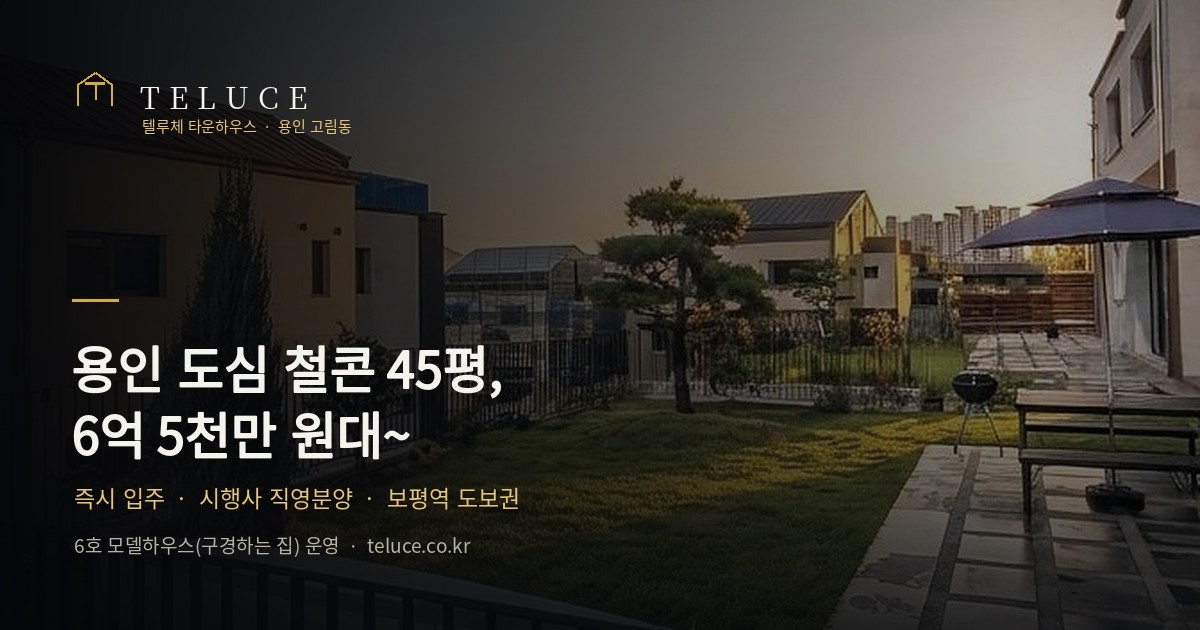
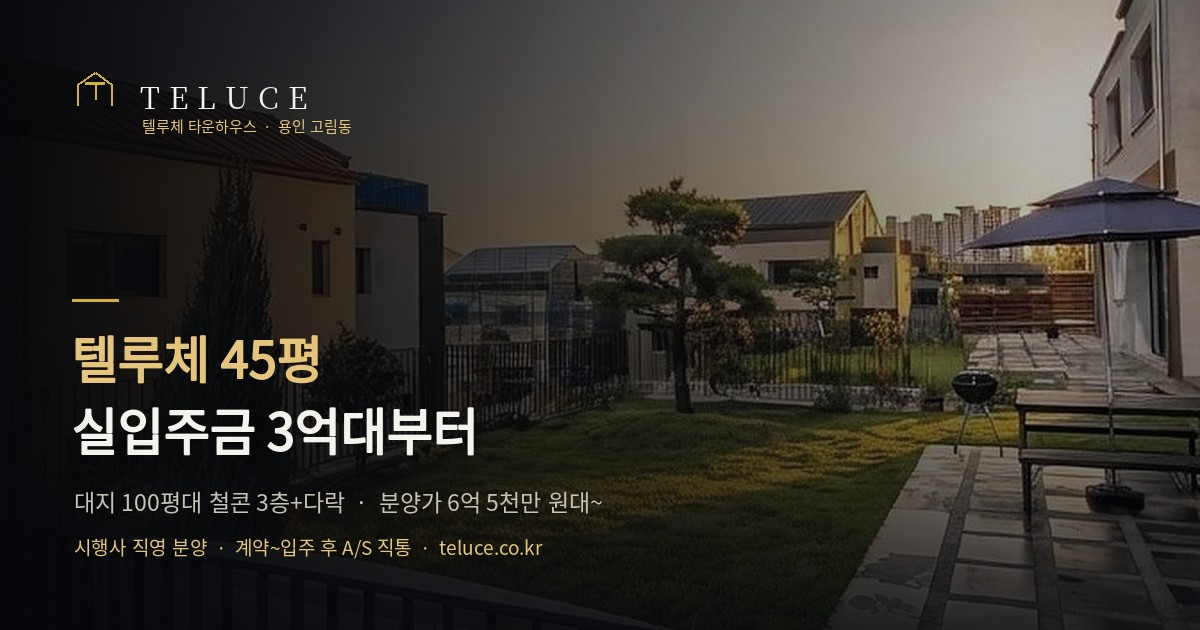
차기 개발 4개 현장(pipeline) 섹션 + OG/히어로 카피 + 직영분양·오시는 길 강조

Changed region(s): [[0.0617, 0.5127, 0.4933, 0.8143], [0.0617, 0.8444, 0.4625, 0.9048]]

diff --git a/index.html b/index.html
@@ -3,24 +3,24 @@
 <head>
 <meta charset="utf-8">
 <meta name="viewport" content="width=device-width, initial-scale=1">
-<title>용인 고림동 텔루체 타운하우스 | TELUCE 텔루체</title>
-<meta name="description" content="경기도 용인시 처인구 고림동 458-9. 보평역 도보권, 철근콘크리트 단독형 17세대 텔루체 타운하우스. 6호 신규 모델하우스(구경하는 집) 운영 중. 대지 약 100평대, 철콘 45평형 6억 5천만 원대~. 방문 예약 010-6235-6914.">
+<title>텔루체 45평 · 실입주금 3억대부터 | 용인 타운하우스 TELUCE</title>
+<meta name="description" content="대지 100평대 철근콘크리트 3층+다락 · 분양가 6억 5천만 원대~ · 시행사 직영 분양. 용인 고림동 458-9, 6호 모델하우스(구경하는 집) 운영. 방문 예약 010-6235-6914.">
 <meta name="theme-color" content="#14213D">
 <meta property="og:type" content="website">
 <meta property="og:site_name" content="텔루체 타운하우스 TELUCE">
 <meta property="og:locale" content="ko_KR">
 <link rel="canonical" href="https://teluce.co.kr/">
 <meta property="og:url" content="https://teluce.co.kr/">
-<meta property="og:title" content="용인 도심 철콘 45평 6억 5천~ · 즉시 입주 | 텔루체">
-<meta property="og:description" content="시행사 직영분양 · 도시가스 · 반도체 클러스터 직주근접 · 잔여 세대 마감 임박. 보평역 도보권 철근콘크리트 45평형, 6억 5천만 원대~.">
+<meta property="og:title" content="텔루체 45평 · 실입주금 3억대부터 | 용인 타운하우스 TELUCE">
+<meta property="og:description" content="대지 100평대 철근콘크리트 3층+다락 · 분양가 6억 5천만 원대~ · 시행사 직영 분양">
 <meta property="og:image" content="https://teluce.co.kr/assets/og-teluce.jpg">
 <meta property="og:image:width" content="1200">
 <meta property="og:image:height" content="630">
 <meta property="og:image:type" content="image/jpeg">
-<meta property="og:image:alt" content="용인 도심 철콘 45평 6억 5천~ · 즉시 입주 | 텔루체">
+<meta property="og:image:alt" content="텔루체 45평 · 실입주금 3억대부터 | 용인 타운하우스 TELUCE">
 <meta name="twitter:card" content="summary_large_image">
-<meta name="twitter:title" content="용인 도심 철콘 45평 6억 5천~ · 즉시 입주 | 텔루체">
-<meta name="twitter:description" content="시행사 직영분양 · 도시가스 · 반도체 클러스터 직주근접 · 잔여 세대 마감 임박">
+<meta name="twitter:title" content="텔루체 45평 · 실입주금 3억대부터 | 용인 타운하우스 TELUCE">
+<meta name="twitter:description" content="대지 100평대 철근콘크리트 3층+다락 · 분양가 6억 5천만 원대~ · 시행사 직영 분양">
 <meta name="twitter:image" content="https://teluce.co.kr/assets/og-teluce.jpg">
 
 <link rel="icon" type="image/svg+xml" href="assets/favicon-teluce.svg">
@@ -28,7 +28,8 @@
 {
   "@context": "https://schema.org",
   "@type": "ApartmentComplex",
-  "name": "텔루체 타운하우스 (TELUCE)",
+  "name": "텔루체 45평 · 실입주금 3억대부터 | 용인 타운하우스 TELUCE",
+  "alternateName": "텔루체 타운하우스 (TELUCE)",
   "description": "경기도 용인시 처인구 고림동 458-9 일원, 철근콘크리트 단독형 17세대 타운하우스. 텔루체 분양 상담.",
   "url": "https://teluce.co.kr/",
   "image": "https://teluce.co.kr/assets/og-teluce.jpg",
@@ -574,6 +575,32 @@ button.price-figure:hover img{transform:scale(1.015)}
 .mobile-bar{position:fixed;left:0;right:0;bottom:0;z-index:70;display:none;background:rgba(9,10,13,.97);border-top:1px solid rgba(229,197,123,.25);padding:8px 10px calc(8px + env(safe-area-inset-bottom));gap:8px;backdrop-filter:blur(10px)}
 .mobile-bar .btn{flex:1;min-height:48px;font-size:14.5px}
 
+/* ---------- pipeline ---------- */
+.pipeline{background:var(--cream-2);border-top:1px solid var(--line);position:relative;overflow:hidden}
+.pipeline::before{content:"";position:absolute;right:-180px;top:-180px;width:520px;height:520px;border-radius:50%;border:1px solid rgba(212,175,55,.14);pointer-events:none}
+.pipe-head{display:flex;align-items:flex-end;justify-content:space-between;gap:24px;flex-wrap:wrap;position:relative}
+.pipe-head .btn{flex:none}
+.pipe-grid{display:grid;grid-template-columns:repeat(4,1fr);gap:clamp(12px,1.6vw,18px);margin-top:clamp(26px,3.6vw,42px);position:relative}
+.pipe-card{display:flex;flex-direction:column;border:1px solid rgba(212,175,55,.24);background:linear-gradient(180deg,rgba(255,255,255,.04),rgba(255,255,255,.012));padding:22px 20px 20px;transition:border-color .3s,transform .3s,box-shadow .3s}
+.pipe-card:hover{border-color:var(--gold);transform:translateY(-4px);box-shadow:0 26px 50px -32px rgba(0,0,0,.95)}
+.pipe-no{font-family:var(--ff-serif);font-size:11px;letter-spacing:.26em;color:var(--gold);margin-bottom:10px}
+.pipe-region{display:block;font-size:10.5px;letter-spacing:.18em;color:rgba(245,243,238,.55);text-transform:uppercase}
+.pipe-card h3{font-size:16.5px;font-weight:700;line-height:1.42;margin:7px 0 0;letter-spacing:-.025em;color:var(--ink)}
+.pipe-size{display:inline-block;margin-top:10px;font-family:var(--ff-serif);font-size:12px;letter-spacing:.04em;color:var(--gold-soft);border:1px solid rgba(212,175,55,.42);padding:3px 10px}
+.pipe-list{margin-top:14px;display:grid;gap:7px;border-top:1px solid rgba(212,175,55,.16);padding-top:13px}
+.pipe-list li{font-size:12.5px;line-height:1.62;color:rgba(245,243,238,.74);display:flex;gap:7px}
+.pipe-list li svg{width:13px;height:13px;flex:none;margin-top:4px;color:var(--gold)}
+.pipe-list b{color:var(--gold-pale);font-weight:600}
+.pipe-cta{margin-top:auto;padding-top:16px;display:inline-flex;align-items:center;gap:6px;font-size:11.5px;color:var(--gold-soft);border-bottom:1px solid rgba(212,175,55,.35);padding-bottom:2px;align-self:flex-start}
+.pipe-cta:hover{color:var(--gold-pale);border-color:var(--gold)}
+.pipe-cta svg{width:12px;height:12px}
+.pipe-foot{display:flex;align-items:center;justify-content:space-between;gap:18px;flex-wrap:wrap;margin-top:clamp(20px,3vw,30px);padding-top:18px;border-top:1px solid var(--line);position:relative}
+.pipe-foot p{font-size:11.5px;color:var(--muted);line-height:1.7;max-width:640px}
+.pipe-foot .status-cta{display:flex;gap:9px;flex-wrap:wrap}
+.way-note{margin-top:10px;padding:10px 12px;border-left:2px solid var(--gold);background:rgba(212,175,55,.07);font-size:13px !important;line-height:1.7;color:var(--ink-2) !important}
+.way-note b{color:var(--gold-soft)}
+@media (max-width:1080px){.pipe-grid{grid-template-columns:1fr 1fr}}
+@media (max-width:640px){.pipe-grid{grid-template-columns:1fr}.pipe-head .btn{width:100%}}
 /* ---------- dark theme form polish ---------- */
 .field input::placeholder,.field textarea::placeholder{color:rgba(245,243,238,.42)}
 .field select option{background:#15171E;color:#F5F3EE}
@@ -706,6 +733,7 @@ button.price-figure:hover img{transform:scale(1.015)}
       <a href="#gallery">갤러리</a>
       <a href="#location">입지</a>
       <a href="#status">분양 현황</a>
+      <a href="#pipeline">차기 4개 현장</a>
       <a href="#booking">방문 예약</a>
     </nav>
     <div class="header-actions">
@@ -721,6 +749,7 @@ button.price-figure:hover img{transform:scale(1.015)}
   <a href="#gallery">갤러리 <span>GALLERY</span></a>
   <a href="#location">입지 환경 <span>LOCATION</span></a>
   <a href="#status">분양 현황 <span>STATUS</span></a>
+  <a href="#pipeline">차기 개발 4개 현장 <span>PIPELINE</span></a>
   <a href="#channel">채널 <span>CHANNEL</span></a>
   <a href="#booking">방문 예약 <span>VISIT</span></a>
   <a class="btn btn-gold" href="tel:+821062356914"><svg aria-hidden="true"><use href="#i-phone"/></svg>010-6235-6914 전화 상담</a>
@@ -765,16 +794,17 @@ button.price-figure:hover img{transform:scale(1.015)}
   <div class="hero-inner">
     <div class="hero-copy">
       <span class="eyebrow">Yongin · Gorim-dong / Teluce</span>
-      <h1>보평역 도보권,<br>17세대뿐인<br><em>철근콘크리트 타운하우스</em></h1>
-      <p class="hero-sub">경기도 용인시 처인구 고림동 458-9. <b>보평역 도보권 도심권</b>에 도시가스·상하수도 직관을 갖춘 <b>대지 약 100평대</b> 단독형 17세대. <b>반도체 클러스터 직주근접</b>, 보평3지구 개발 호재를 그대로 누리는 자리에서 6호 신규 모델하우스가 <b>‘구경하는 집’</b>으로 문을 열었습니다.</p>
+      <h1><em>텔루체 45평</em>,<br>실입주금 3억대부터</h1>
+      <p class="hero-sub">경기도 용인시 처인구 고림동 458-9. 대지 약 100평대 단독형 17세대, <b>철근콘크리트 3층 + 다락 실사용 45평형</b>. 중간 대행 없는 <b>시행사 직영 분양</b>으로 계약부터 입주 후 A/S까지 직접 책임집니다. 보평역 도보권에 6호 모델하우스가 <b>‘구경하는 집’</b>으로 문을 열었습니다.</p>
       <p class="hero-punch">
         <span class="hp-label">철근콘크리트 3층 + 다락, 실사용 45평형</span>
         <span class="hp-row"><b>분양가 6억 5천만 원대~</b><span class="hp-dot" aria-hidden="true">·</span><b class="hp-key">실입주금 3억 원대~</b></span>
         <span class="hp-note">실입주금은 대출 조건에 따라 상이</span>
       </p>
       <div class="hero-badges">
-        <span class="hero-badge"><span class="dot"></span>시행사 직영 분양 · 김경민 실장</span>
-        <span class="hero-badge is-key"><span class="dot"></span>실입주금 3억 원대~</span>
+        <span class="hero-badge is-key"><span class="dot"></span>시행사 직영 분양 · 중간 대행 없음</span>
+        <span class="hero-badge"><span class="dot"></span>계약~입주 후 A/S 직통</span>
+        <span class="hero-badge"><span class="dot"></span>실입주금 3억대부터</span>
         <span class="hero-badge"><span class="dot"></span>즉시 입주 · 6호 구경하는 집</span>
         <span class="hero-badge">17세대 중 6세대 분양 완료</span>
         <span class="hero-badge is-urgent"><span class="dot"></span>잔여 세대 마감 임박</span>
@@ -784,6 +814,7 @@ button.price-figure:hover img{transform:scale(1.015)}
         <a class="btn btn-gold" href="#booking"><svg aria-hidden="true"><use href="#i-calendar"/></svg>방문 예약하기</a>
         <a class="btn btn-ghost" href="sms:+821062356914?body=%5B%ED%85%94%EB%A3%A8%EC%B2%B4%5D%20%EC%9A%A9%EC%9D%B8%20%EA%B3%A0%EB%A6%BC%EB%8F%99%20%ED%85%94%EB%A3%A8%EC%B2%B4%20%EB%B0%A9%EB%AC%B8%20%EC%98%88%EC%95%BD%20%EB%AC%B8%EC%9D%98%EB%93%9C%EB%A6%BD%EB%8B%88%EB%8B%A4."><svg aria-hidden="true"><use href="#i-sms"/></svg>문자로 예약</a>
         <a class="btn btn-ghost" href="https://talk.naver.com/ct/wfuyhez" target="_blank" rel="noopener"><svg aria-hidden="true"><use href="#i-chat"/></svg>네이버 톡톡</a>
+        <a class="btn btn-line" href="#pipeline"><svg aria-hidden="true"><use href="#i-arrow"/></svg>차기 개발 4개 현장</a>
       </div>
       <a class="hero-tel" href="tel:+821062356914"><svg aria-hidden="true"><use href="#i-phone"/></svg>분양 상담 김경민 실장 <b>010-6235-6914</b></a>
     </div>
@@ -1049,6 +1080,7 @@ button.price-figure:hover img{transform:scale(1.015)}
         <div class="addr-box">
           <div class="ab-head"><svg aria-hidden="true"><use href="#i-pin"/></svg>현장 주소</div>
           <p>경기도 용인시 처인구 고림동 458-9 일원<br>보평역 도보권 · 보평3지구 인접</p>
+          <p class="way-note"><b>오시는 길</b> · 현장 단지 들어서서 직진으로 보이는 <b>모델하우스(6호 구경하는 집)</b>로 바로 오세요.</p>
           <div class="map-links">
             <a href="https://map.naver.com/p/search/%EA%B2%BD%EA%B8%B0%EB%8F%84%20%EC%9A%A9%EC%9D%B8%EC%8B%9C%20%EC%B2%98%EC%9D%B8%EA%B5%AC%20%EA%B3%A0%EB%A6%BC%EB%8F%99%20458-9" target="_blank" rel="noopener"><svg aria-hidden="true"><use href="#i-pin"/></svg>네이버 지도</a>
             <a href="https://map.kakao.com/?q=%EA%B2%BD%EA%B8%B0%EB%8F%84%20%EC%9A%A9%EC%9D%B8%EC%8B%9C%20%EC%B2%98%EC%9D%B8%EA%B5%AC%20%EA%B3%A0%EB%A6%BC%EB%8F%99%20458-9" target="_blank" rel="noopener"><svg aria-hidden="true"><use href="#i-pin"/></svg>카카오맵</a>
@@ -1209,6 +1241,77 @@ button.price-figure:hover img{transform:scale(1.015)}
   </div>
 </section>
 
+<!-- ============ pipeline (차기 개발 4개 현장) ============ -->
+<section class="section pipeline" id="pipeline" aria-label="주식회사 영운 차기 개발 파이프라인">
+  <div class="wrap">
+    <div class="pipe-head" data-reveal>
+      <div>
+        <span class="eyebrow">Upcoming projects</span>
+        <h2 class="title">주식회사 영운 × TELUCE<br><span class="thin">용인 고림동 텔루체를 잇는 4대 핵심 개발 현장</span></h2>
+        <p class="lead">텔루체를 함께 만든 시행 주체가 준비하는 다음 자리입니다. 이천 산수유마을과 12,000평 수목원 단지, 인제 내린천, 통영 사량도까지 — 토지마다 다른 컨셉으로 이어집니다.</p>
+      </div>
+      <a class="btn btn-line" href="#contact"><svg aria-hidden="true"><use href="#i-arrow"/></svg>공동 개발·분양 상담</a>
+    </div>
+    <div class="pipe-grid">
+      <article class="pipe-card" data-reveal>
+        <span class="pipe-no">01</span>
+        <span class="pipe-region">경기 이천 · 백사면</span>
+        <h3>도립리 624-1<br>산수유마을</h3>
+        <span class="pipe-size">약 3,000평대</span>
+        <ul class="pipe-list">
+        <li><svg aria-hidden="true"><use href="#i-check"/></svg><span><b>이천 산수유축제</b>가 열리는 마을 바로 옆</span></li>
+        <li><svg aria-hidden="true"><use href="#i-check"/></svg><span>필지 60~70평대 + <b>10평 모듈러</b> 조합</span></li>
+        <li><svg aria-hidden="true"><use href="#i-check"/></svg><span>토지 포함 <b>1억대</b> · 1가구 2주택 미포함 컨셉의 수익형 세컨하우스</span></li>
+        </ul>
+        <a class="pipe-cta" href="#contact">공동 개발·분양 상담<svg aria-hidden="true"><use href="#i-arrow"/></svg></a>
+      </article>
+      <article class="pipe-card" data-reveal>
+        <span class="pipe-no">02</span>
+        <span class="pipe-region">경기 이천 · 도봉리</span>
+        <h3>도봉리 612-3 일대<br>수목원형 복합테마파크</h3>
+        <span class="pipe-size">약 12,000평 대단지</span>
+        <ul class="pipe-list">
+        <li><svg aria-hidden="true"><use href="#i-check"/></svg><span>수목원형 <b>복합테마파크</b> + 대단지 전원주택</span></li>
+        <li><svg aria-hidden="true"><use href="#i-check"/></svg><span><b>빌라 2억대 / 타운하우스 3억대 / 전원주택 4억대</b></span></li>
+        <li><svg aria-hidden="true"><use href="#i-check"/></svg><span>기존 수목원 <b>조경 완비</b> — 땅 자체가 이미 정원</span></li>
+        </ul>
+        <a class="pipe-cta" href="#contact">공동 개발·분양 상담<svg aria-hidden="true"><use href="#i-arrow"/></svg></a>
+      </article>
+      <article class="pipe-card" data-reveal>
+        <span class="pipe-no">03</span>
+        <span class="pipe-region">강원 인제 · 미산리</span>
+        <h3>미산리<br>내린천 바로 앞</h3>
+        <span class="pipe-size">약 3,000평</span>
+        <ul class="pipe-list">
+        <li><svg aria-hidden="true"><use href="#i-check"/></svg><span><b>내린천 바로 앞</b> 액티비티·휴양 복합 레저</span></li>
+        <li><svg aria-hidden="true"><use href="#i-check"/></svg><span>대지 약 <b>70평대</b> 세컨하우스</span></li>
+        <li><svg aria-hidden="true"><use href="#i-check"/></svg><span>토지 포함 <b>1억 원 미만</b> · 1가구 2주택 미포함 컨셉</span></li>
+        </ul>
+        <a class="pipe-cta" href="#contact">공동 개발·분양 상담<svg aria-hidden="true"><use href="#i-arrow"/></svg></a>
+      </article>
+      <article class="pipe-card" data-reveal>
+        <span class="pipe-no">04</span>
+        <span class="pipe-region">경남 통영 · 사량도</span>
+        <h3>사량도<br>바닷가 오션뷰</h3>
+        <span class="pipe-size">약 1,000평대</span>
+        <ul class="pipe-list">
+        <li><svg aria-hidden="true"><use href="#i-check"/></svg><span>바닷가 <b>오션뷰</b> 입지</span></li>
+        <li><svg aria-hidden="true"><use href="#i-check"/></svg><span><b>럭셔리 모듈러 펜션</b> 개발</span></li>
+        <li><svg aria-hidden="true"><use href="#i-check"/></svg><span>운영형 펜션 사업 구상</span></li>
+        </ul>
+        <a class="pipe-cta" href="#contact">공동 개발·분양 상담<svg aria-hidden="true"><use href="#i-arrow"/></svg></a>
+      </article>
+    </div>
+    <div class="pipe-foot" data-reveal>
+      <p>* 각 현장은 기획·검토 단계로, 인허가·사업 일정·분양가와 조건은 확정 전 협의에 따라 조정될 수 있습니다.</p>
+      <div class="status-cta">
+        <a class="btn btn-gold btn-sm" href="tel:+821062356914"><svg aria-hidden="true"><use href="#i-phone"/></svg>사업 상담 010-6235-6914</a>
+        <a class="btn btn-line btn-sm" href="https://talk.naver.com/ct/wfuyhez" target="_blank" rel="noopener"><svg aria-hidden="true"><use href="#i-chat"/></svg>톡톡 상담</a>
+      </div>
+    </div>
+  </div>
+</section>
+
 <!-- ============ news ============ -->
 <section class="section news" id="news">
   <div class="wrap">
@@ -1331,6 +1434,7 @@ button.price-figure:hover img{transform:scale(1.015)}
       <h2 class="title">방문 예약 — 날짜만 골라 주세요</h2>
       <p class="lead">텔루체는 100% 사전 예약제로 운영됩니다. 달력에서 방문 희망일과 시간대를 고르고 내용을 확인하시면 문자로 예약 내용을 보내드립니다. 담당자 확인 후 확정 연락을 드립니다.</p>
       <p class="lead booking-lead-sub"><b>6호 모델하우스(구경하는 집)</b> 관람도 같은 방법으로 신청하실 수 있습니다.</p>
+      <p class="lead booking-lead-sub"><b>오시는 길</b> — 현장 단지 들어서서 직진으로 보이는 모델하우스(6호 구경하는 집)로 바로 오세요.</p>
       <p class="lead booking-lead-sub"><b>방문 상담 예약 시 소정의 사은품(기프트)을 드립니다.</b> 예약 후 방문하시면 현장에서 바로 전달드립니다.</p>
       <p class="talk-note"><svg aria-hidden="true"><use href="#i-chat"/></svg><span>전화가 어려우시면 네이버 톡톡 1:1 채팅으로도 예약·잔여 세대 확인이 가능합니다. <a href="https://talk.naver.com/ct/wfuyhez" target="_blank" rel="noopener"><b>톡톡으로 상담하기</b></a></span></p>
     </div>
@@ -1451,6 +1555,7 @@ button.price-figure:hover img{transform:scale(1.015)}
             <div><svg aria-hidden="true"><use href="#i-pin"/></svg><span>경기도 용인시 처인구 고림동 458-9 일원</span></div>
             <div><svg aria-hidden="true"><use href="#i-calendar"/></svg><span>방문 100% 사전 예약제 · 6호 모델하우스(구경하는 집) 운영 중</span></div>
             <div><svg aria-hidden="true"><use href="#i-check"/></svg><span>방문 상담 예약 시 소정의 사은품(기프트) 증정</span></div>
+            <div><svg aria-hidden="true"><use href="#i-arrow"/></svg><span>오시는 길 — 현장 단지 들어서서 직진으로 보이는 모델하우스(6호 구경하는 집)로 바로 오세요.</span></div>
           </div>
           <div class="contact-btns">
             <a class="btn btn-gold" href="tel:+821062356914"><svg aria-hidden="true"><use href="#i-phone"/></svg>전화 상담</a>

diff --git a/README.md b/README.md
@@ -20,6 +20,7 @@
 8-1. **직영 분양(#direct)** — 시행사 직영·계약~입주 다이렉트 관리·입주 후 A/S 3카드 + 비바싱크(VIVASINK) 음식물처리기 무상 설치 혜택 배너(공식 홈페이지 링크)
 8-2. **보도자료(#news)** — 이데일리(2026.11.16)·국민일보(2026.09.14)·매일경제(2025.05.23) 카드
 8-3. **톡톡 상담** — 네이버 톡톡 `https://talk.naver.com/ct/wfuyhez` (상담 카드·분양 현황·예약 결과·푸터)
+8-3-1. **차기 개발 4개 현장(#pipeline)** — 주식회사 영운 × TELUCE 후속 파이프라인 4곳(이천 도립리 산수유마을 3,000평대 / 이천 도봉리 12,000평 수목원형 복합테마파크 / 인제 미산리 내린천 3,000평 / 통영 사량도 1,000평대 오션뷰 모듈러 펜션) 4열 카드(모바일 1열) + 공동 개발·분양 상담 연결
 8-4. **방문 예약 사은품** — 히어로 배지·예약 안내·상담 카드에 "방문 상담 예약 시 소정의 사은품 증정"
 9. **방문 예약** — 달력(지난 날짜 비활성) + 시간대 9개 + 방문 목적/성함/연락처 → 문자 예약(`sms:`) · 전화 · 내용 복사
 10. **사업 주체** — 시행·토지주 직접 진행 `주식회사 영운`, 분양·개발 파트너 `하우스링`
